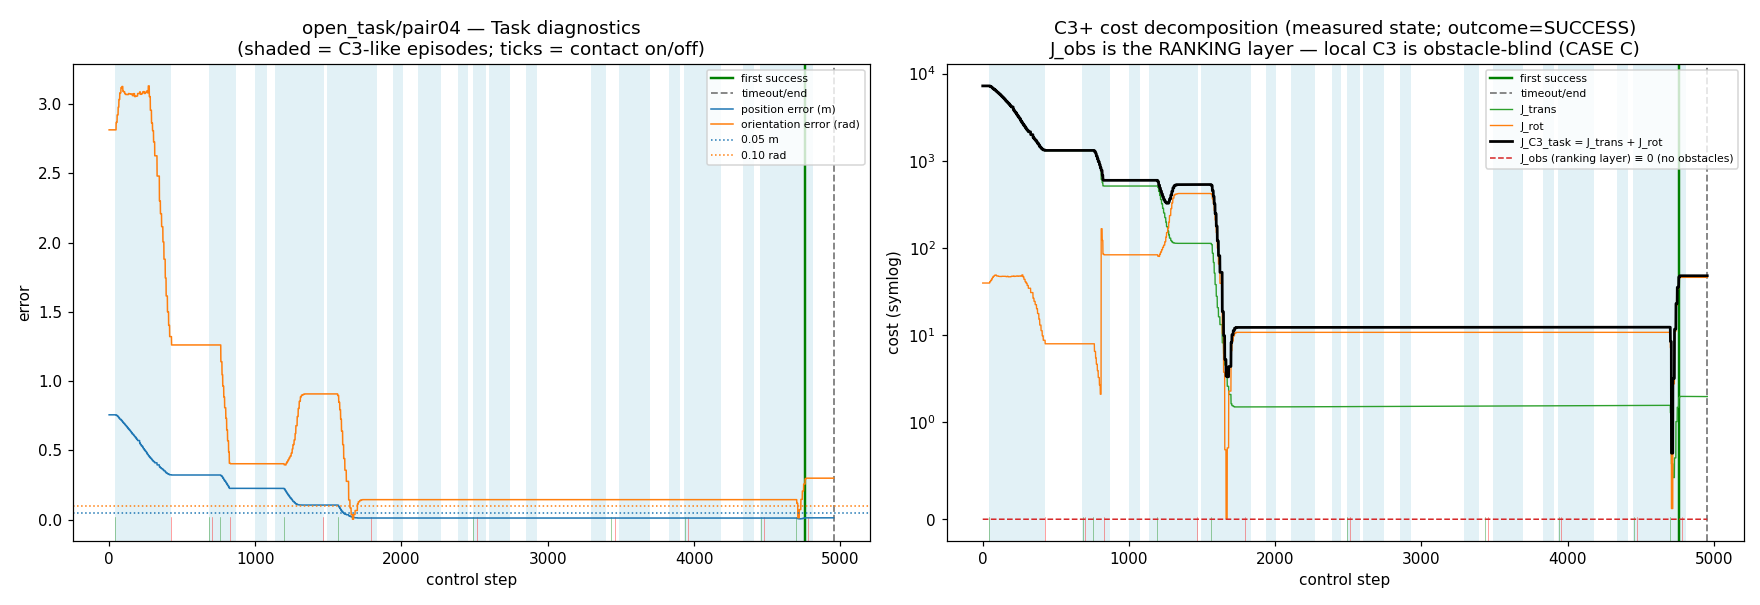
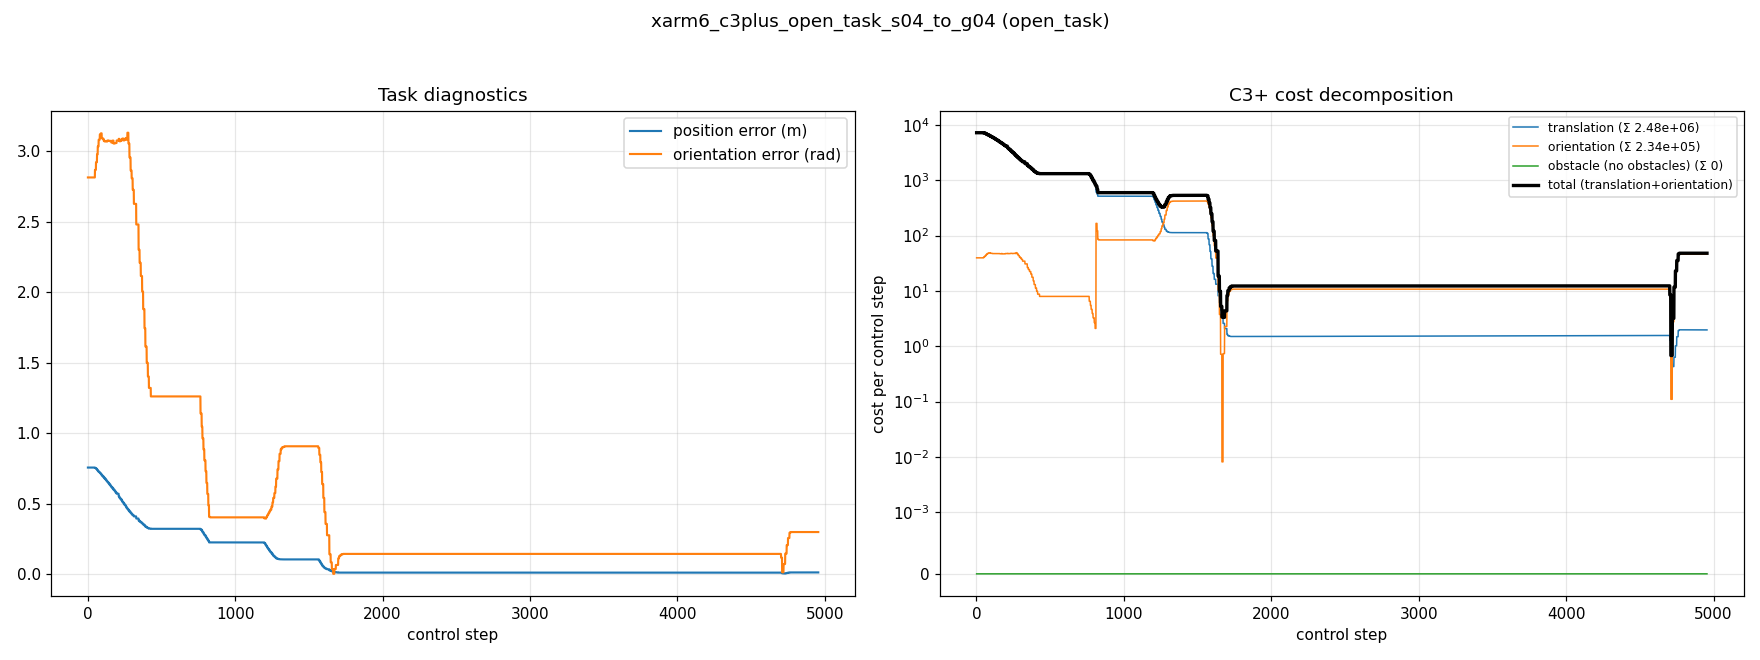
cost(taskA): restyle cost_diagnostics_v2 to the original eval-metrics look — plain two-panel, 3 costs + total only
Claude-Session: https://claude.ai/code/session_01JbDvZNzc7ADAyCXeusorKm

diff --git a/tools/scene_smoke/cost_diagnostics_v2.py b/tools/scene_smoke/cost_diagnostics_v2.py
@@ -157,59 +157,35 @@ def process_run(args):
         if not math.isnan(st):
             succ_step = k[int(np.argmin(np.abs(m["sim_time"] - st)))]
 
-    # ---- figure ----
-    fig, (axL, axR) = plt.subplots(1, 2, figsize=(16, 5.5), sharex=True)
     contact = m["physical_contact_active"] > 0.5
 
-    for ax in (axL, axR):
-        # episode shading (C3-like/contact-rich, light blue)
-        for ep in episodes:
-            s, e = float(ep["start_step"]), float(ep["end_step"])
-            e = min(e, k[-1])
-            if s <= k[-1]:
-                ax.axvspan(s, e, color="#add8e6", alpha=0.35, lw=0)
-        # contact on/off ticks
-        trans = np.flatnonzero(np.diff(contact.astype(int)))
-        ons = [k[i + 1] for i in trans if contact[i + 1]]
-        offs = [k[i + 1] for i in trans if not contact[i + 1]]
-        if len(ons) + len(offs) > 100:
-            dec = math.ceil((len(ons) + len(offs)) / 100)
-            ons, offs = ons[::dec], offs[::dec]
-        for x0 in ons:
-            ax.axvline(x0, color="green", lw=0.4, alpha=0.6, ymax=0.05)
-        for x0 in offs:
-            ax.axvline(x0, color="red", lw=0.4, alpha=0.6, ymax=0.05)
-        if succ_step is not None:
-            ax.axvline(succ_step, color="green", lw=1.6, ls="-", label="first success")
-        if run_id in CRASH_RUNS:
-            ax.plot([k[-1]], [ax.get_ylim()[0]], "rx", ms=12, mew=3, clip_on=False,
-                    label="runtime termination")
-            ax.axvline(k[-1], color="red", lw=1.2, ls=":")
-        else:
-            ax.axvline(k[-1], color="gray", lw=1.2, ls="--", label="timeout/end")
+    # ---- figure: same layout/style as the original *_eval_metrics.png,
+    # right panel reduced to the 3 decision-relevant costs + total ----
+    fig, (axL, axR) = plt.subplots(1, 2, figsize=(16, 6))
+    scene = run_id.split("/")[0]
+    fig.suptitle(f"{stem.replace('_metrics', '')} ({scene})")
 
-    axL.plot(k, epos, color="#1f77b4", lw=1.0, label="position error (m)")
-    axL.plot(k, eth, color="#ff7f0e", lw=1.0, label="orientation error (rad)")
-    axL.axhline(0.05, color="#1f77b4", ls=":", lw=1, label="0.05 m")
-    axL.axhline(0.10, color="#ff7f0e", ls=":", lw=1, label="0.10 rad")
-    axL.set_title(f"{run_id} — Task diagnostics\n(shaded = C3-like episodes; ticks = contact on/off)")
+    axL.plot(k, epos, lw=1.4, label="position error (m)")
+    axL.plot(k, eth, lw=1.4, label="orientation error (rad)")
+    axL.set_title("Task diagnostics")
     axL.set_xlabel("control step")
-    axL.set_ylabel("error")
-    axL.legend(fontsize=7, loc="upper right")
+    axL.legend(loc="upper right")
+    axL.grid(alpha=0.3)
 
-    axR.plot(k, j_trans, color="#2ca02c", lw=0.9, label="J_trans")
-    axR.plot(k, j_rot, color="#ff7f0e", lw=0.9, label="J_rot")
-    axR.plot(k, j_task, color="black", lw=1.8, label="J_C3_task = J_trans + J_rot")
-    lbl = "J_obs (ranking layer)" + ("" if has_obs else " ≡ 0 (no obstacles)")
-    axR.plot(k, j_obs, color="#d62728", lw=1.0, ls="--", label=lbl)
-    axR.set_yscale("symlog", linthresh=1.0)
-    axR.set_title(f"C3+ cost decomposition (measured state; outcome={outcome})\n"
-                  "J_obs is the RANKING layer — local C3 is obstacle-blind (CASE C)")
+    axR.plot(k, j_trans, lw=1.0, label=f"translation (Σ {np.nansum(j_trans):.3g})")
+    axR.plot(k, j_rot, lw=1.0, label=f"orientation (Σ {np.nansum(j_rot):.3g})")
+    lbl = "obstacle" + ("" if has_obs else " (no obstacles)")
+    axR.plot(k, j_obs, lw=1.0, label=f"{lbl} (Σ {np.nansum(j_obs):.3g})")
+    axR.plot(k, j_task, color="black", lw=2.2,
+             label="total (translation+orientation)")
+    axR.set_yscale("symlog", linthresh=1e-3)
+    axR.set_title("C3+ cost decomposition")
     axR.set_xlabel("control step")
-    axR.set_ylabel("cost (symlog)")
-    axR.legend(fontsize=7, loc="upper right")
+    axR.set_ylabel("cost per control step")
+    axR.legend(loc="upper right", fontsize=8)
+    axR.grid(alpha=0.3)
 
-    fig.tight_layout()
+    fig.tight_layout(rect=[0, 0, 1, 0.95])
     fig.savefig(os.path.join(d, stem + "_cost_diagnostics_v2.png"), dpi=110)
     plt.close(fig)
 
